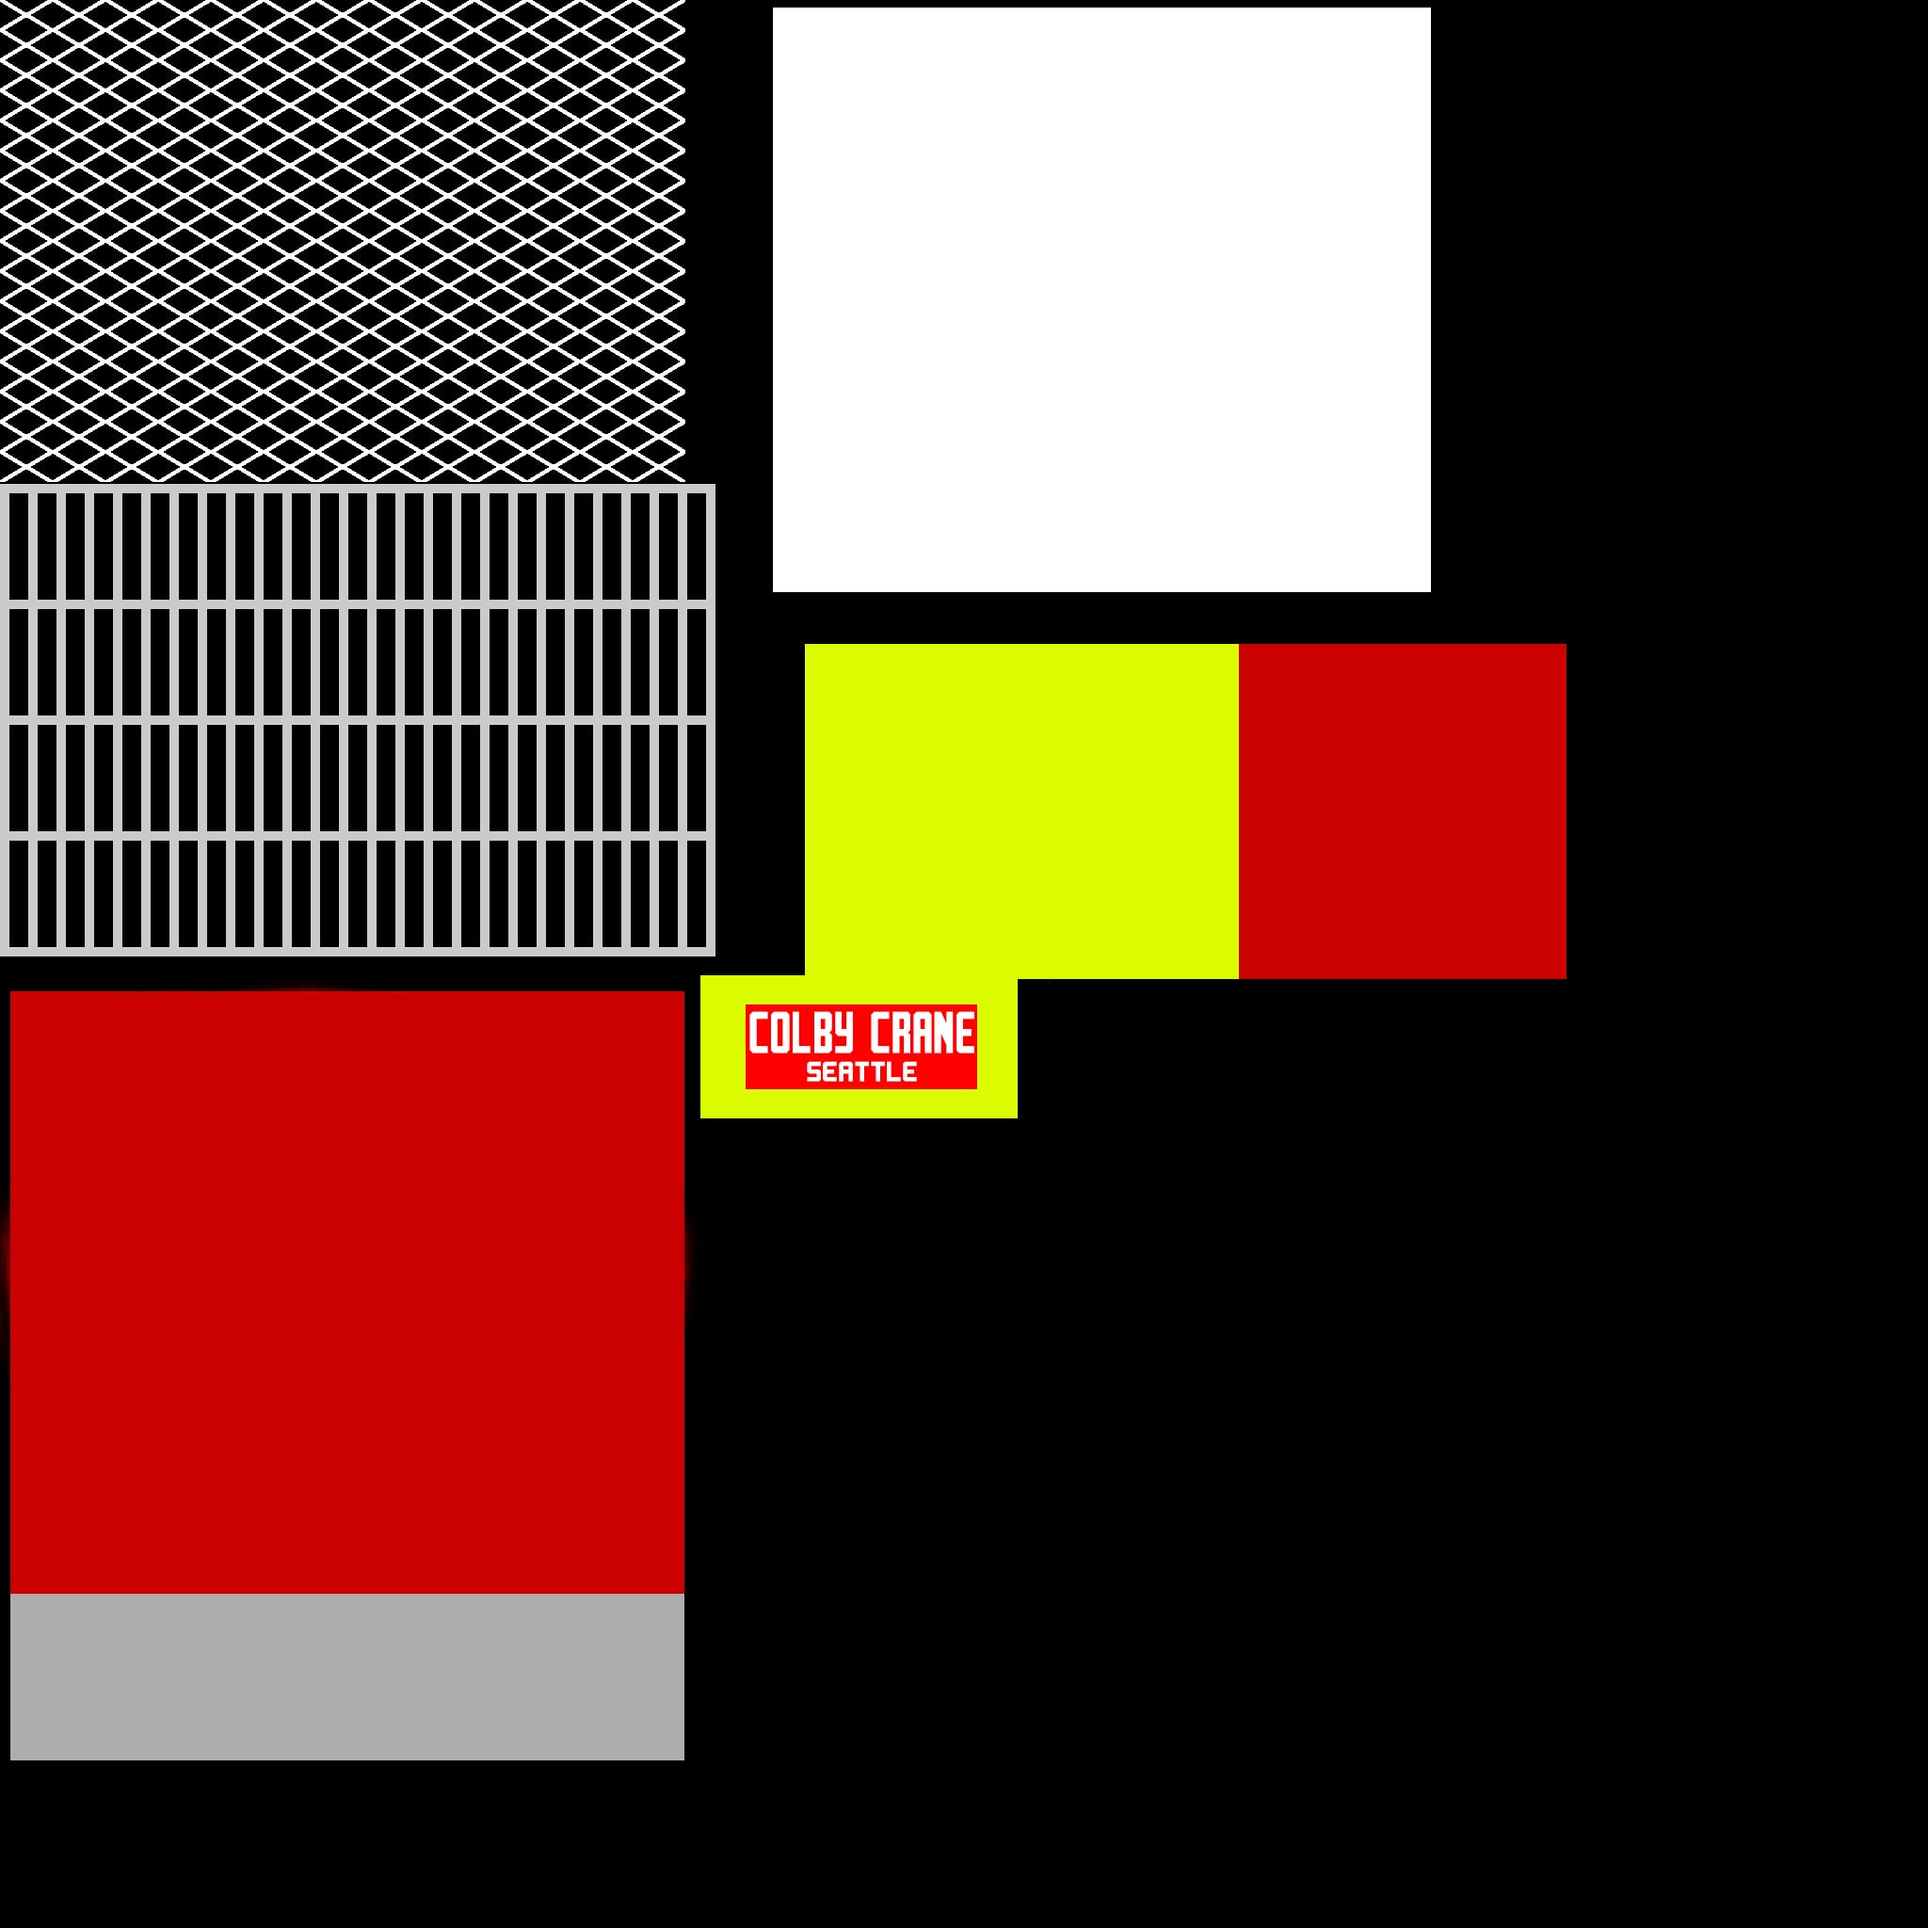
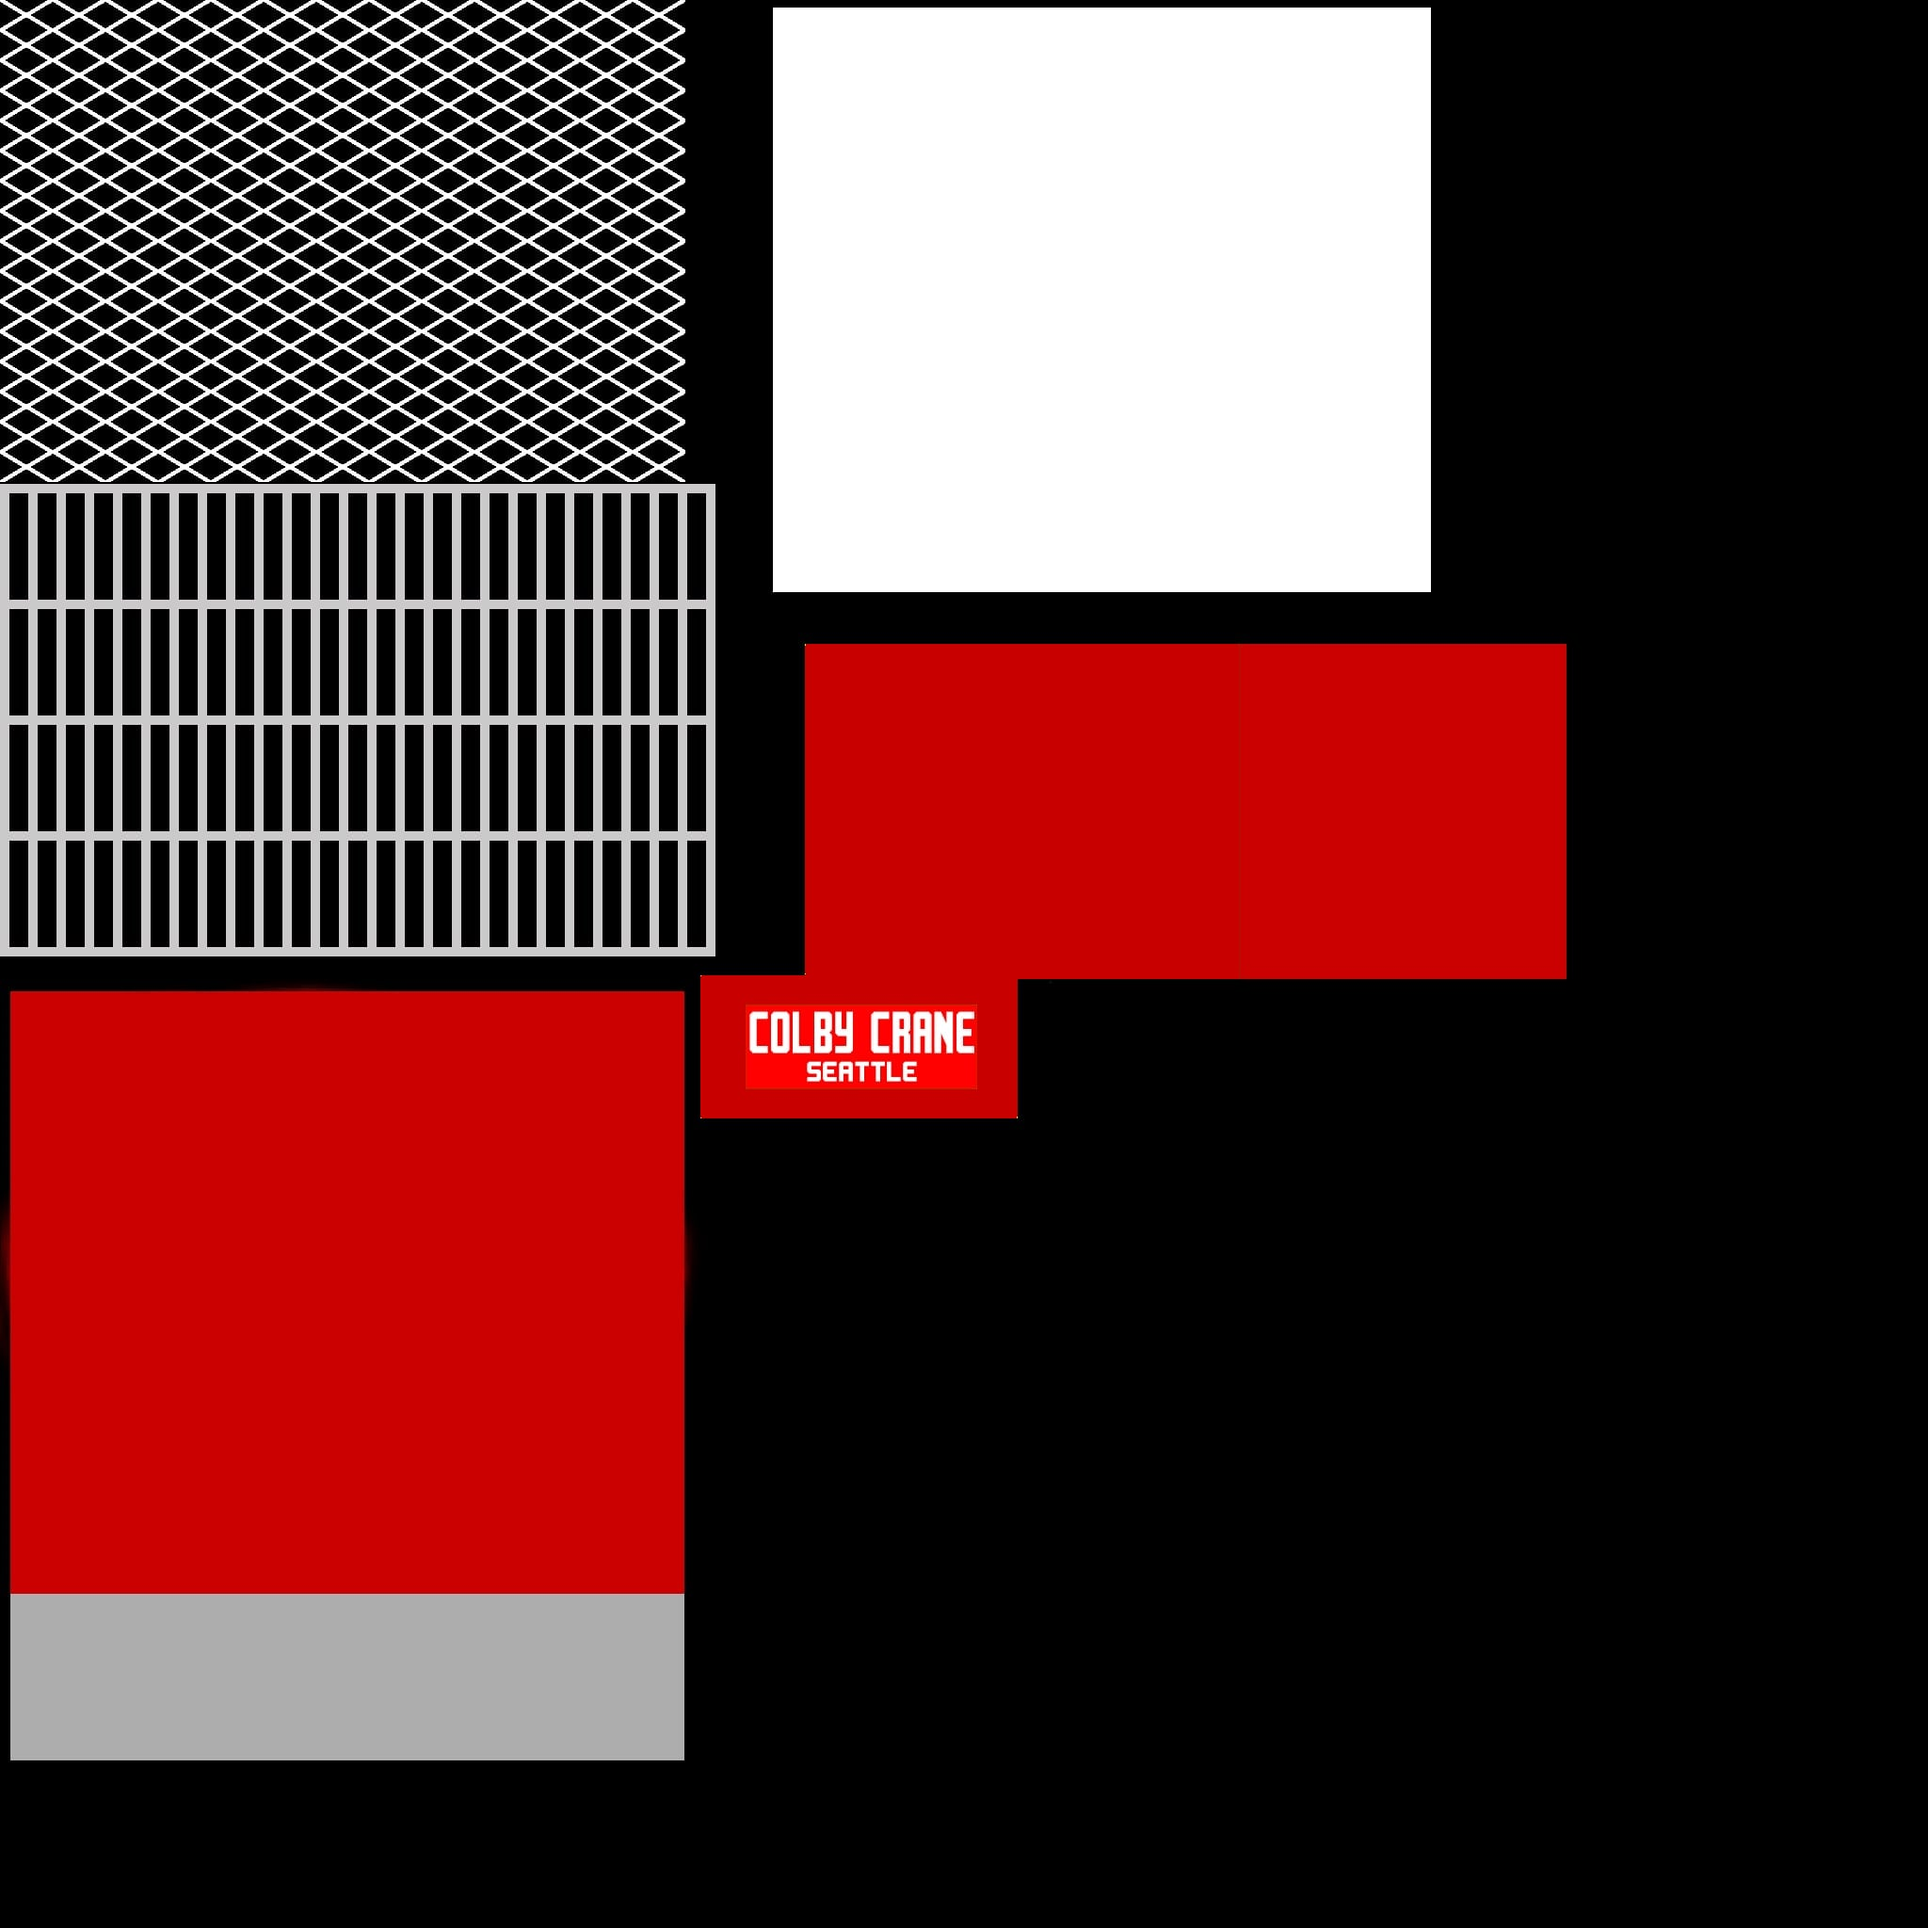
Launch tower: the hammerhead crane red like the tower, as in the photos of 1969 (NASSP's texture paints it yellow-green)

Changed region(s): [[0.3438, 0.3125, 0.6562, 0.5938]]

diff --git a/packages/data-pipeline/src/buildLauncher.ts b/packages/data-pipeline/src/buildLauncher.ts
@@ -1,9 +1,10 @@
 import { copyFileSync, mkdirSync, writeFileSync } from 'node:fs'
 import { dirname, join } from 'node:path'
 import { fileURLToPath } from 'node:url'
+import sharp from 'sharp'
 import type { ModelDescription } from '../../app/src/spacecraft/modelFile'
 import { launcherModels } from './apollo/launcherModel'
-import { LAUNCHER_PARTS } from './apollo/launcherNassp'
+import { craneRed, LAUNCHER_PARTS } from './apollo/launcherNassp'
 import { nasspPalette, nasspTexture } from './apollo/nasspParts'
 import { PAINT_TEXTURE, PALETTE_TEXTURE } from './apollo/saturnVParts'
 import { assemblyAnchors, assignAssemblies } from './spacecraft/assemblies'
@@ -17,6 +18,14 @@ import { packModel } from './spacecraft/modelWriter'
 // Saturn V's paint and palette (`npm run build-saturn-v` first).
 //
 // `npm run build-launcher`
+
+// The texture the crane is painted from (see craneRed).
+const CRANE_TEXTURE = 'nassp/texcolors.jpg'
+
+async function recoloured(jpeg: Buffer): Promise<Buffer> {
+  const { data, info } = await sharp(jpeg).removeAlpha().raw().toBuffer({ resolveWithObject: true })
+  return sharp(Buffer.from(craneRed(new Uint8Array(data))), { raw: { width: info.width, height: info.height, channels: 3 } }).jpeg({ quality: 86, mozjpeg: true }).toBuffer()
+}
 
 export const LAUNCHER_ASSEMBLIES = [...LAUNCHER_PARTS, 'rocket', 'person', 'slidewire'] as const
 
@@ -46,7 +55,7 @@ export async function buildLauncher(out: string): Promise<void> {
   bytes += write(out, 'crawler', written(models.crawler, ['crawler'], {}, 0))
   for (const file of [PAINT_TEXTURE, PALETTE_TEXTURE]) copyFileSync(join(APP, 'saturnV', file), join(out, file))
   const images: [string, Buffer][] = [['nassp/palette.png', await nasspPalette(models.palette)]]
-  for (const [file, path] of models.textures) images.push([file, await nasspTexture(file, path)])
+  for (const [file, path] of models.textures) images.push([file, file === CRANE_TEXTURE ? await recoloured(await nasspTexture(file, path)) : await nasspTexture(file, path)])
   for (const [file, image] of images) {
     writeFileSync(join(out, file), image)
     bytes += image.length

diff --git a/packages/data-pipeline/src/apollo/launcherNassp.ts b/packages/data-pipeline/src/apollo/launcherNassp.ts
@@ -65,3 +65,15 @@ export function mirroredHinge({ pivot, axis, degrees }: NasspTurn, shift: readon
     angle: (-degrees * Math.PI) / 180,
   }
 }
+
+// NASSP paints the tower's hammerhead crane yellow-green (texcolors.dds); in the photos of 1969 it
+// is red like the tower. Its yellow-green pixels (rgb, packed) become the tower's red.
+const TOWER_RED = [200, 0, 0]
+export function craneRed(rgb: Uint8Array): Uint8Array {
+  const out = Uint8Array.from(rgb)
+  for (let i = 0; i < out.length; i += 3) {
+    const [r, g, b] = [out[i], out[i + 1], out[i + 2]]
+    if (g > 180 && r > 150 && b < 90) out.set(TOWER_RED, i)
+  }
+  return out
+}

diff --git a/packages/data-pipeline/test/launcherModel.test.ts b/packages/data-pipeline/test/launcherModel.test.ts
@@ -90,3 +90,11 @@ describe('the slide wire', () => {
     expect(to[1]).toBeLessThan(5)
   })
 })
+
+describe('the crane on the tower', () => {
+  it('is red like the tower, as in the photos of 1969, not the yellow-green of the simulator’s texture', async () => {
+    const { craneRed } = await import('../src/apollo/launcherNassp')
+    const lime = Uint8Array.of(220, 255, 0, 200, 0, 0, 200, 200, 200)
+    expect(Array.from(craneRed(lime))).toEqual([200, 0, 0, 200, 0, 0, 200, 200, 200])
+  })
+})
